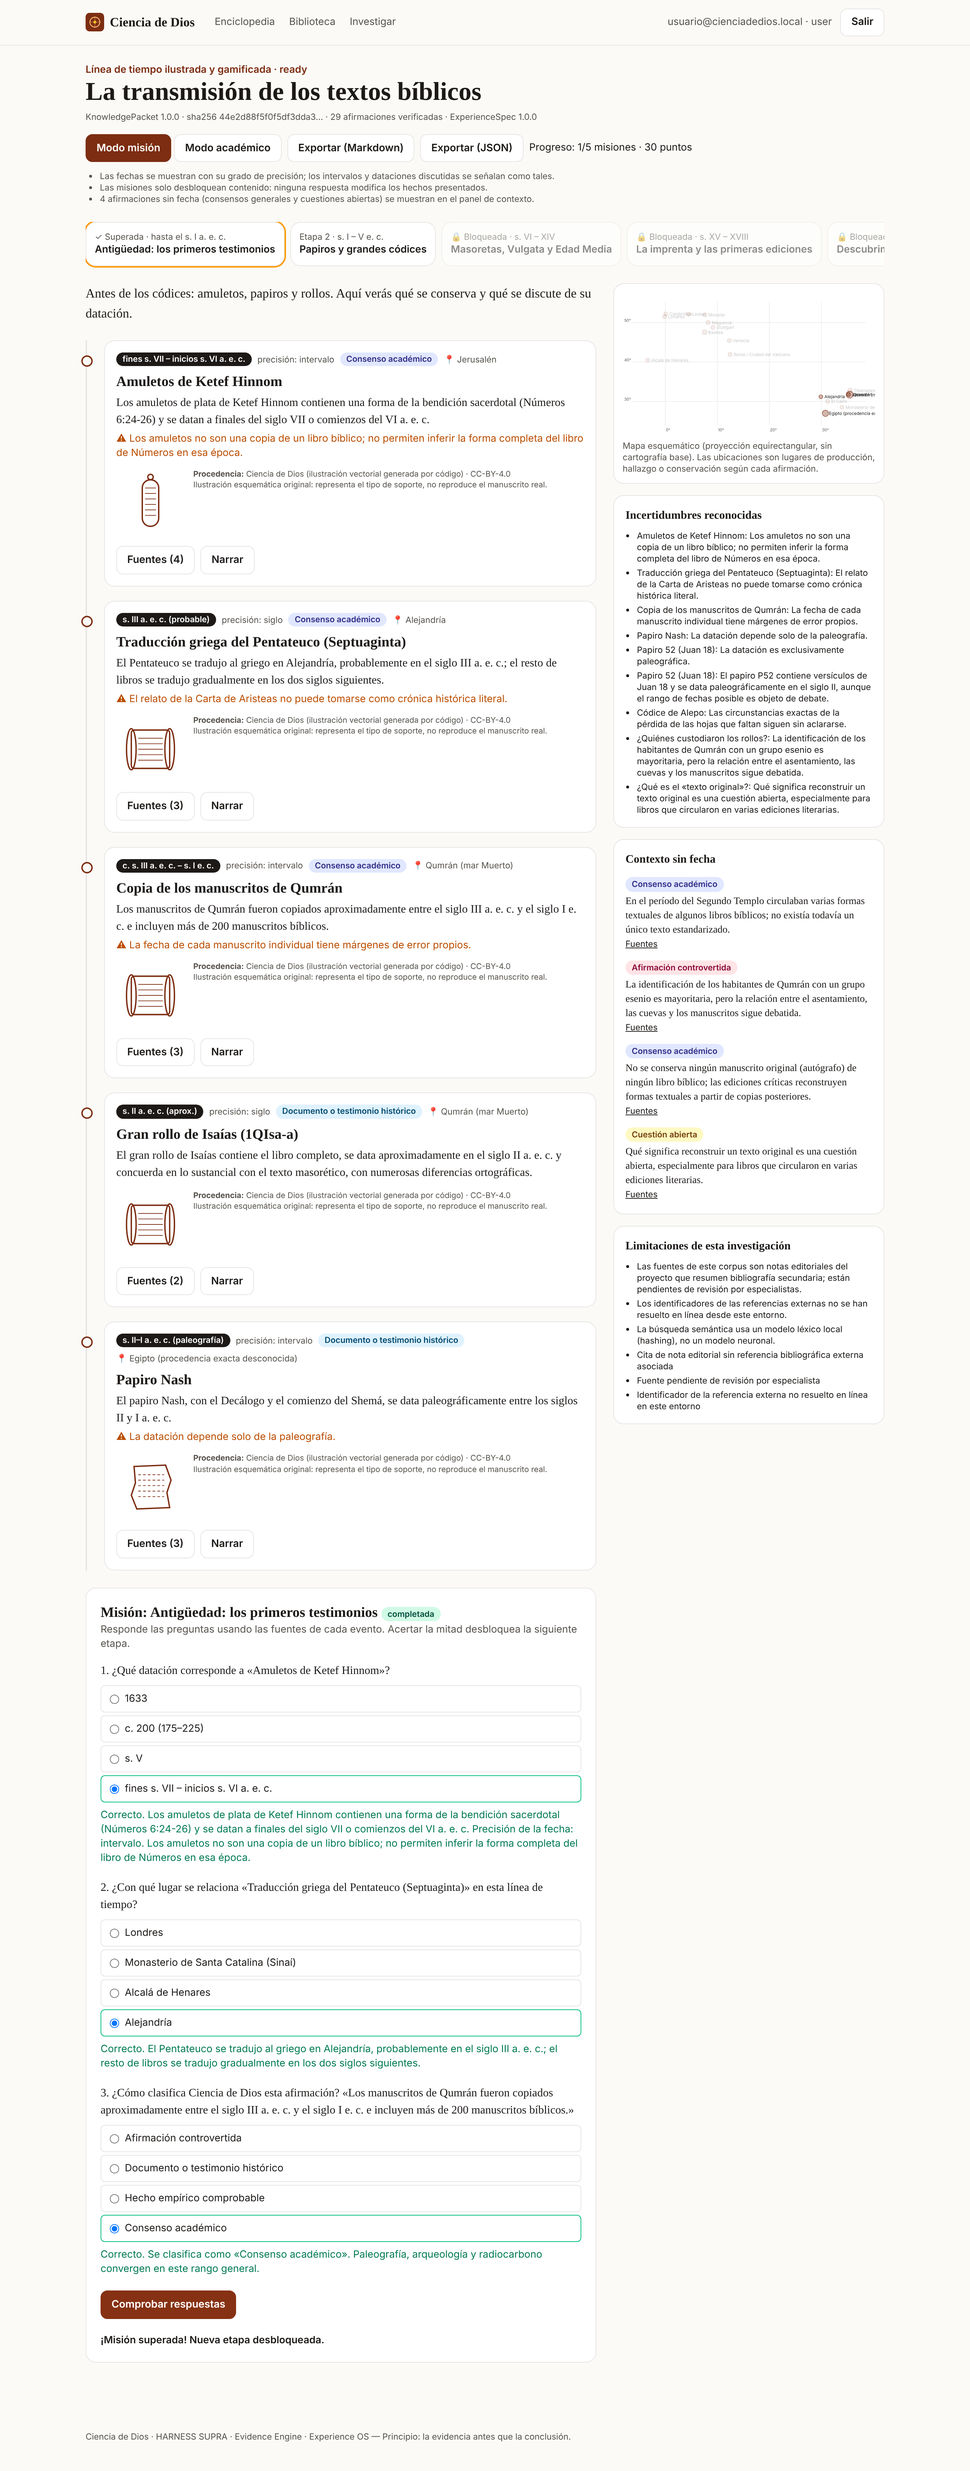
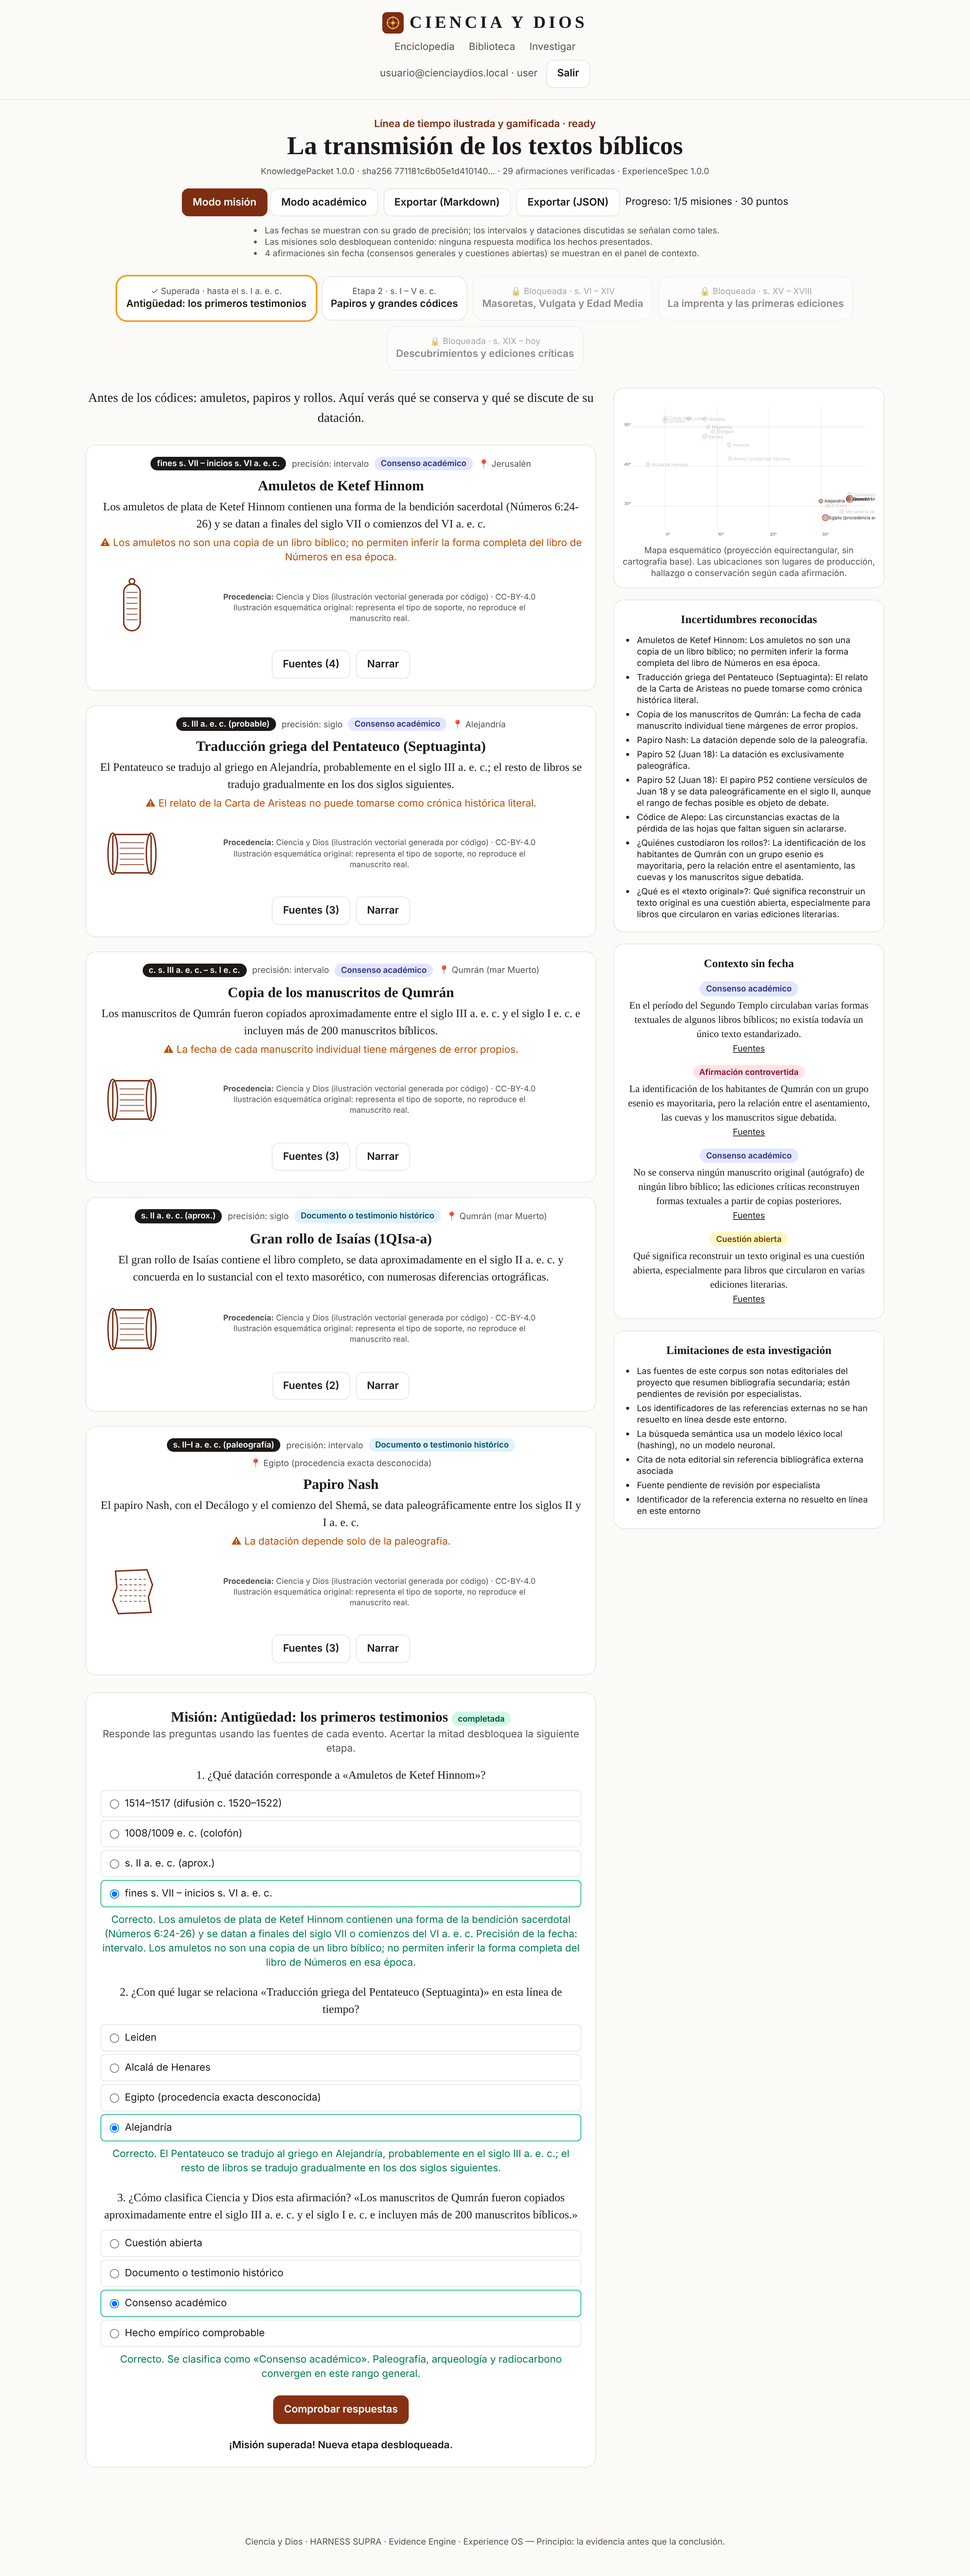
feat(web): diseño centrado y nuevo nombre CIENCIA Y DIOS
- Marca visible «CIENCIA Y DIOS» (cabecera, título, manifest PWA, portada, pie);
  textos internos «Ciencia y Dios»; usuarios de desarrollo @cienciaydios.local.
- Diseño centrado: cabecera, portada, títulos, tarjetas, pestañas, botones,
  etapas y línea de tiempo. Textos largos, citas, listas y tablas se centran
  como bloque pero se leen alineados a la izquierda.
- Capturas actualizadas.

Claude-Session: https://claude.ai/code/session_012HkgCTLdcD8TMbisAVNTsT

Changed region(s): [[0.0938, 0.0, 0.7812, 0.9668], [0.625, 0.1559, 0.9062, 0.5925]]

diff --git a/apps/web/app/page.tsx b/apps/web/app/page.tsx
@@ -13,23 +13,24 @@ export default function Home() {
   useEffect(() => { api<Topic[]>("/v1/topics").then(setTopics).catch(() => setTopics([])); }, []);
   return (
     <div>
-      <section className="py-10">
+      <section className="py-10 text-center">
         <p className="ui accent text-sm font-semibold uppercase tracking-widest">Enciclopedia universal inteligente</p>
-        <h1 className="mt-2 text-4xl font-bold leading-tight md:text-5xl">La evidencia antes que la conclusión.</h1>
-        <p className="muted mt-4 max-w-3xl text-lg">
+        <h1 className="mt-2 text-4xl font-bold leading-tight md:text-5xl">CIENCIA Y DIOS</h1>
+        <p className="mt-3 text-2xl md:text-3xl">La evidencia antes que la conclusión.</p>
+        <p className="muted mx-auto mt-4 max-w-3xl text-lg">
           Investiga las grandes preguntas sobre Dios, el universo, la vida y la conciencia. Cada afirmación muestra
           su categoría epistémica, sus fuentes verificables, las posturas en disputa y lo que todavía no sabemos.
         </p>
-        <form className="ui mt-6 flex max-w-2xl gap-2" onSubmit={(e) => { e.preventDefault(); router.push(`/biblioteca?q=${encodeURIComponent(q)}`); }}>
+        <form className="ui mx-auto mt-6 flex max-w-2xl gap-2" onSubmit={(e) => { e.preventDefault(); router.push(`/biblioteca?q=${encodeURIComponent(q)}`); }}>
           <input className="input" value={q} onChange={(e) => setQ(e.target.value)} placeholder="Buscar en la biblioteca: p. ej. «Códice de Alepo»" aria-label="Buscar" />
           <button className="btn btn-primary" disabled={q.trim().length < 2}>Buscar</button>
         </form>
         <div className="mt-4"><Link href="/investigar" className="ui underline">o lanza una investigación con el HARNESS →</Link></div>
       </section>
-      <h2 className="mb-3 text-2xl font-semibold">Áreas de estudio</h2>
+      <h2 className="mb-4 text-center text-2xl font-semibold">Áreas de estudio</h2>
       <div className="grid gap-3 sm:grid-cols-2 lg:grid-cols-3">
         {topics.map((t) => (
-          <Link key={t.slug} href={`/areas/${t.slug}`} className="card block p-4 transition hover:-translate-y-0.5" data-testid="topic-card">
+          <Link key={t.slug} href={`/areas/${t.slug}`} className="card block p-4 text-center transition hover:-translate-y-0.5" data-testid="topic-card">
             <h3 className="font-semibold">{t.title}</h3>
             <p className="muted mt-1 text-sm">{t.summary}</p>
             <p className="ui mt-3 text-xs">

diff --git a/apps/web/app/experiencias/[id]/page.tsx b/apps/web/app/experiencias/[id]/page.tsx
@@ -162,13 +162,13 @@ export default function ExperiencePage() {
       </div>
       <ul className="ui muted mt-3 list-disc pl-5 text-xs">{spec.notices.map((n) => <li key={n}>{n}</li>)}</ul>
 
-      <nav className="ui mt-6 flex gap-2 overflow-x-auto pb-2" aria-label="Etapas">
+      <nav className="ui mt-6 flex flex-wrap justify-center gap-2 pb-2" aria-label="Etapas">
         {spec.stages.map((s, i) => {
           const locked = i > unlocked;
           const done = progress?.completed_missions.includes(s.mission?.id ?? "");
           return (
             <button key={s.id} disabled={locked} onClick={() => setStageIdx(i)} data-testid={`stage-${i}`}
-              className={`card min-w-44 shrink-0 p-3 text-left text-sm ${i === stageIdx ? "ring-2 ring-amber-500" : ""} ${locked ? "opacity-50" : ""}`}>
+              className={`card min-w-44 shrink-0 p-3 text-center text-sm ${i === stageIdx ? "ring-2 ring-amber-500" : ""} ${locked ? "opacity-50" : ""}`}>
               <span className="block text-xs muted">{locked ? "🔒 Bloqueada" : done && gamified ? "✓ Superada" : `Etapa ${i + 1}`} · {s.range_label}</span>
               <span className="font-semibold">{s.title}</span>
             </button>);
@@ -179,12 +179,11 @@ export default function ExperiencePage() {
         <div className="mt-4 grid gap-6 lg:grid-cols-[1fr_380px]">
           <section>
             <p className="text-lg">{stage.intro}</p>
-            <ol className="relative mt-6 space-y-5 border-l-2 pl-6" style={{ borderColor: "var(--line)" }}>
+            <ol className="relative mx-auto mt-6 max-w-3xl space-y-5">
               {stageEvents.map((e) => {
                 const c = claims.get(e.claim_id)!;
                 return (
                   <li key={e.claim_id} className="card relative p-4" data-testid="timeline-event">
-                    <span className="absolute -left-[33px] top-5 h-4 w-4 rounded-full border-2" style={{ background: "var(--bg)", borderColor: "var(--accent)" }} />
                     <div className="ui flex flex-wrap items-center gap-2 text-xs">
                       <span className="chip bg-stone-900 text-white dark:bg-stone-100 dark:text-stone-900">{e.date_label}</span>
                       <span className="muted">precisión: {c.date?.precision_label}</span>

diff --git a/apps/web/app/ejecuciones/[id]/page.tsx b/apps/web/app/ejecuciones/[id]/page.tsx
@@ -68,7 +68,7 @@ export default function RunPage() {
         <span className="text-sm">Gasto {formatUsd(r.spent_usd)} / presupuesto {formatUsd(r.budget_usd)} · estimado {formatUsd(r.estimated_usd)}</span>
         {r.result?.experience_id && <Link data-testid="open-experience" className="btn btn-primary" href={`/experiencias/${r.result.experience_id}`}>Abrir experiencia →</Link>}
       </div>
-      <ol className="mt-5 flex flex-wrap gap-1 text-[11px]" aria-label="Cadena de estados">
+      <ol className="mt-5 flex flex-wrap justify-center gap-1 text-[11px]" aria-label="Cadena de estados">
         {d.state_chain.map((s, i) => (
           <li key={s} className={`rounded px-2 py-1 ${i <= chainIdx ? "bg-emerald-600 text-white" : "bg-stone-200 dark:bg-stone-800"} ${s === r.state ? "ring-2 ring-amber-500" : ""}`}>{s}</li>
         ))}
@@ -103,7 +103,7 @@ export default function RunPage() {
         <section>
           <div className="flex items-center justify-between"><h2 className="text-lg font-semibold">Traza en vivo (SSE)</h2>
             <label className="text-xs"><input type="checkbox" checked={showDebug} onChange={(e) => setShowDebug(e.target.checked)} /> llamadas a herramientas</label></div>
-          <ol className="card mt-2 max-h-96 space-y-1 overflow-y-auto p-3 font-mono text-[11px]" aria-live="polite">
+          <ol className="card prose-left mt-2 max-h-96 space-y-1 overflow-y-auto p-3 font-mono text-[11px]" aria-live="polite">
             {events.filter((e) => showDebug || e.level !== "debug").map((e) => (
               <li key={e.id} className={e.level === "error" ? "text-rose-600" : e.level === "warning" ? "text-amber-600" : e.level === "audit" ? "accent" : ""}>
                 {new Date(e.created_at).toLocaleTimeString("es")} [{e.level}] {e.task_key ? `${e.task_key}: ` : ""}{e.message}

diff --git a/apps/web/components/Nav.tsx b/apps/web/components/Nav.tsx
@@ -14,10 +14,11 @@ export function Nav() {
   const path = usePathname();
   return (
     <header className="ui border-b" style={{ borderColor: "var(--line)" }}>
-      <nav className="mx-auto flex max-w-6xl flex-wrap items-center gap-x-5 gap-y-2 px-4 py-3" aria-label="Principal">
-        <Link href="/" className="mr-2 flex items-center gap-2 text-lg font-bold" style={{ fontFamily: "ui-serif, Georgia, serif" }}>
-          <img src="/icon.svg" alt="" width={26} height={26} /> Ciencia de Dios
+      <nav className="mx-auto flex max-w-6xl flex-col items-center gap-2 px-4 py-4 text-center" aria-label="Principal">
+        <Link href="/" className="flex items-center gap-2 text-2xl font-bold tracking-[0.18em]" style={{ fontFamily: "ui-serif, Georgia, serif" }}>
+          <img src="/icon.svg" alt="" width={30} height={30} /> CIENCIA Y DIOS
         </Link>
+        <div className="flex flex-wrap items-center justify-center gap-x-5 gap-y-2">
         {LINKS.map((l) => (
           <Link key={l.href} href={l.href} aria-current={path === l.href ? "page" : undefined}
             className={`text-sm ${path === l.href ? "accent font-semibold" : "muted hover:underline"}`}>{l.label}</Link>
@@ -27,7 +28,8 @@ export function Nav() {
             Centro de control
           </Link>
         )}
-        <div className="ml-auto flex items-center gap-3 text-sm">
+        </div>
+        <div className="flex flex-wrap items-center justify-center gap-3 text-sm">
           {session ? (
             <>
               <span className="muted" data-testid="session-email">{session.email ?? session.userId.slice(0, 8)} · {session.role}</span>

diff --git a/apps/web/app/biblioteca/[id]/page.tsx b/apps/web/app/biblioteca/[id]/page.tsx
@@ -24,7 +24,7 @@ export default function DocPage() {
   return (
     <article>
       <h1 className="text-3xl font-bold">{doc.title}</h1>
-      <dl className="ui card mt-4 grid gap-x-6 gap-y-1 p-4 text-sm md:grid-cols-2">
+      <dl className="ui card prose-left mt-4 grid gap-x-6 gap-y-1 p-4 text-sm md:grid-cols-2">
         <div><dt className="muted inline">Autoría: </dt><dd className="inline">{doc.authors.join(", ")}{doc.institution ? ` (${doc.institution})` : ""}</dd></div>
         <div><dt className="muted inline">Tipo: </dt><dd className="inline">{doc.doc_kind} · {doc.language}</dd></div>
         <div><dt className="muted inline">Licencia: </dt><dd className="inline">{d.license.name}</dd></div>
@@ -40,7 +40,7 @@ export default function DocPage() {
           <section key={c.id} id={c.id}>
             <h2 className="text-xl font-semibold">{c.locator}</h2>
             {c.injection_risk && <p className="ui chip mt-1 bg-rose-100 text-rose-900">Riesgo de inyección detectado: {c.injection_signals.join(", ")} — excluido como evidencia</p>}
-            <p className="mt-2 whitespace-pre-line">{c.content}</p>
+            <p className="prose-left mx-auto mt-2 max-w-3xl whitespace-pre-line">{c.content}</p>
           </section>
         ))}
       </div>

diff --git a/apps/web/app/layout.tsx b/apps/web/app/layout.tsx
@@ -4,7 +4,7 @@ import { AuthProvider } from "@/lib/auth";
 import { Nav } from "@/components/Nav";
 
 export const metadata: Metadata = {
-  title: { default: "Ciencia de Dios", template: "%s · Ciencia de Dios" },
+  title: { default: "CIENCIA Y DIOS", template: "%s · CIENCIA Y DIOS" },
   description: "Enciclopedia universal inteligente: la evidencia antes que la conclusión.",
   manifest: "/manifest.webmanifest",
   icons: { icon: "/icon.svg" },
@@ -20,7 +20,7 @@ export default function RootLayout({ children }: { children: React.ReactNode }) 
           <Nav />
           <main id="main" className="mx-auto max-w-6xl px-4 pb-24 pt-6">{children}</main>
           <footer className="ui muted mx-auto max-w-6xl px-4 pb-10 text-xs">
-            Ciencia de Dios · HARNESS SUPRA · Evidence Engine · Experience OS — Principio: la evidencia antes que la conclusión.
+            Ciencia y Dios · HARNESS SUPRA · Evidence Engine · Experience OS — Principio: la evidencia antes que la conclusión.
           </footer>
         </AuthProvider>
         <script dangerouslySetInnerHTML={{ __html: `if('serviceWorker' in navigator){navigator.serviceWorker.register('/sw.js').catch(()=>{})}` }} />

diff --git a/apps/web/app/globals.css b/apps/web/app/globals.css
@@ -2,6 +2,18 @@
 
 @custom-variant dark (&:where(.dark, .dark *));
 
+/* Diseño centrado. Va en @layer base para que cualquier utilidad de Tailwind (text-left, justify-start…) pueda anularlo. */
+@layer base {
+  main, footer { text-align: center; }
+  main .flex-wrap, main [role="tablist"], main [role="group"] { justify-content: center; }
+  main [class*="max-w-"] { margin-left: auto; margin-right: auto; }
+  main form { margin-left: auto; margin-right: auto; }
+  /* Textos largos, citas, listas y tablas: centrados como bloque, alineados a la izquierda para leerse bien */
+  main table, main blockquote, main .list-disc, main .prose-left, main input, main textarea, main select { text-align: left; }
+  main .list-disc { width: fit-content; max-width: 48rem; margin-left: auto; margin-right: auto; }
+  main table { margin-left: auto; margin-right: auto; }
+}
+
 :root {
   --bg: #fbfaf7; --fg: #1c1917; --muted: #57534e; --card: #ffffff; --line: #e7e5e4; --accent: #7c2d12; --accent-2: #b45309;
 }

diff --git a/apps/web/app/areas/[slug]/page.tsx b/apps/web/app/areas/[slug]/page.tsx
@@ -57,7 +57,7 @@ export default function AreaPage() {
                   <ul className="list-disc pl-6">{a.topic.open_questions.map((q) => <li key={q}>{q}</li>)}</ul></section>
               )}
               <section><h2 className="mb-3 text-2xl font-semibold">Bibliografía citada</h2>
-                <ol className="space-y-1 text-sm">{a.bibliography.map((r) => (
+                <ol className="prose-left mx-auto max-w-3xl space-y-1 text-sm">{a.bibliography.map((r) => (
                   <li key={r.id}>{r.authors.join(", ")}. <em>{r.title}</em>{r.container_title ? `. ${r.container_title}` : ""}{r.edition ? `. ${r.edition}` : ""}{r.publisher ? `. ${r.publisher}` : ""}{r.year ? `, ${r.year}` : ""}.
                     {r.identifiers?.url && <> <a className="underline" href={r.identifiers.url} rel="noopener noreferrer" target="_blank">{r.identifiers.url}</a></>}</li>
                 ))}</ol>

diff --git a/apps/web/components/Illustration.tsx b/apps/web/components/Illustration.tsx
@@ -45,9 +45,9 @@ export function IllustrationSvg({ kind, title, size = 96 }: { kind: string; titl
 
 export function IllustrationFigure({ ill }: { ill: Ill }) {
   return (
-    <figure className="flex items-start gap-3">
+    <figure className="flex flex-col items-center gap-2">
       <IllustrationSvg kind={ill.kind} title={ill.alt} />
-      <figcaption className="ui muted text-[11px] leading-snug">
+      <figcaption className="ui muted max-w-md text-[11px] leading-snug">
         <strong>Procedencia:</strong> {ill.provenance.creator} · {ill.provenance.license}
         <br />{ill.provenance.notice}
       </figcaption>

diff --git a/apps/web/components/SchematicMap.tsx b/apps/web/components/SchematicMap.tsx
@@ -27,7 +27,7 @@ export function SchematicMap({ map, active, onSelect }: { map: MapSpec; active?:
           );
         })}
       </svg>
-      <figcaption className="ui muted mt-2 text-xs">{map.notice}</figcaption>
+      <figcaption className="ui muted mt-2 text-center text-xs">{map.notice}</figcaption>
     </figure>
   );
 }

diff --git a/apps/api/cdd/harness/agents/experience.py b/apps/api/cdd/harness/agents/experience.py
@@ -53,7 +53,7 @@ def _det_shuffle(options: list[str], seed: str) -> tuple[list[str], int]:
 def _illustration(kind: str | None, title: str) -> Illustration:
     k = kind or "codex"
     return Illustration(kind=k, alt=f"{ILLUSTRATION_ALT.get(k, 'Esquema')} — {title}", provenance=Provenance(
-        creator="Ciencia de Dios (ilustración vectorial generada por código)", kind="schematic_illustration",
+        creator="Ciencia y Dios (ilustración vectorial generada por código)", kind="schematic_illustration",
         license="CC-BY-4.0", is_reconstruction=True,
         notice="Ilustración esquemática original: representa el tipo de soporte, no reproduce el manuscrito real."))
 
@@ -88,7 +88,7 @@ def _questions(stage_events: list, all_events: list, packet: KnowledgePacket, st
                               key=lambda x: hashlib.sha256((seed + x).encode()).hexdigest())[:3]
             opts, idx = _det_shuffle([c.category_label] + distract, seed)
             qs.append(Question(id=f"q-{stage_id}-{i}", claim_id=c.id, kind="epistemic_category",
-                               prompt=f"¿Cómo clasifica Ciencia de Dios esta afirmación? «{c.statement}»", options=opts,
+                               prompt=f"¿Cómo clasifica Ciencia y Dios esta afirmación? «{c.statement}»", options=opts,
                                correct_index=idx,
                                explanation=f"Se clasifica como «{c.category_label}». " + (c.consensus_note or c.insufficient_evidence_note or
                                            "La clasificación depende del tipo de evidencia disponible, no de una preferencia.")))

diff --git a/apps/api/cdd/seed.py b/apps/api/cdd/seed.py
@@ -22,9 +22,9 @@ from .topics import AREAS
 CORPUS_DIR = Path(os.environ.get("CDD_CORPUS_DIR", Path(__file__).resolve().parents[3] / "corpus"))
 
 DEV_USERS = {
-    "owner": ("00000000-0000-4000-8000-000000000001", "propietario@cienciadedios.local", "owner"),
-    "user": ("00000000-0000-4000-8000-000000000002", "usuario@cienciadedios.local", "user"),
-    "user2": ("00000000-0000-4000-8000-000000000003", "usuaria2@cienciadedios.local", "user"),
+    "owner": ("00000000-0000-4000-8000-000000000001", "propietario@cienciaydios.local", "owner"),
+    "user": ("00000000-0000-4000-8000-000000000002", "usuario@cienciaydios.local", "user"),
+    "user2": ("00000000-0000-4000-8000-000000000003", "usuaria2@cienciaydios.local", "user"),
 }
 
 
@@ -120,7 +120,7 @@ def seed_corpus(conn: Connection, name: str = "biblical_transmission") -> dict[s
         try:
             res = ingest_document(conn, DocumentInput(
                 slug=d["slug"], title=d["title"], body=body, doc_kind="editorial_note", license_code="CC-BY-4.0",
-                authors=["Equipo editorial de Ciencia de Dios"], institution="Ciencia de Dios", language="es",
+                authors=["Equipo editorial de Ciencia y Dios"], institution="Ciencia y Dios", language="es",
                 rights_statement="Nota editorial original del proyecto, CC BY 4.0. Resume fuentes secundarias citadas.",
                 provenance={"origin": "corpus/" + name + "/" + d["file"], "method": "redacción editorial",
                             "review": "pendiente de revisión por especialista"},
